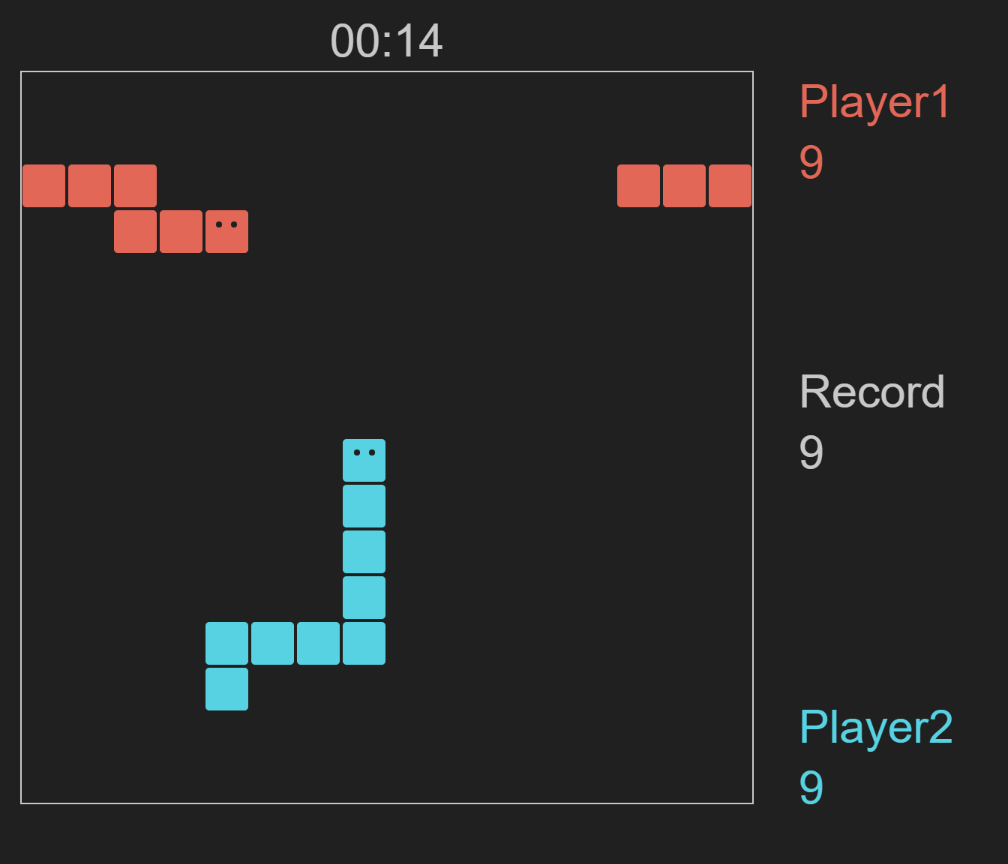
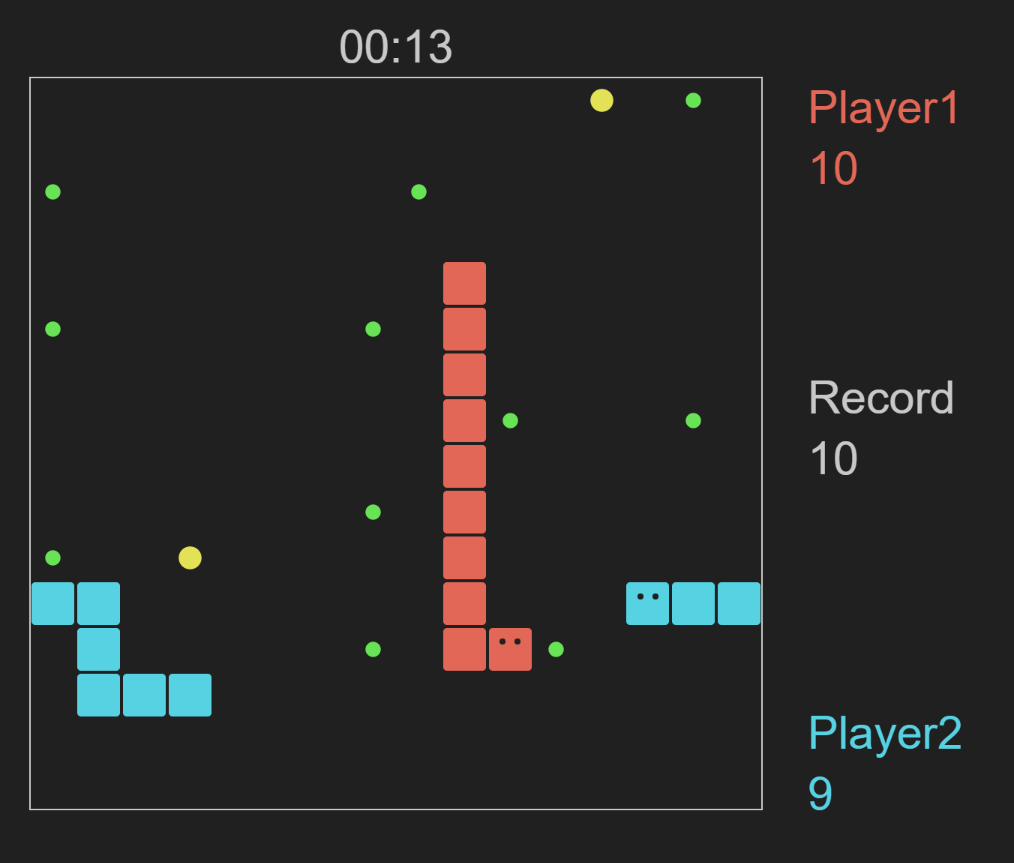
Replaced screenshot

diff --git a/sketch.js b/sketch.js
@@ -17,7 +17,7 @@ function setup() {
 	cellSize = height/20;
 	p1Color = color(227, 103, 86);
 	p2Color = color(86, 210, 227);
-	startLen = 9;
+	startLen = 4;
 	record = startLen;
 	foodChance = 0.08;
 	superFoodChance = 0.005;
